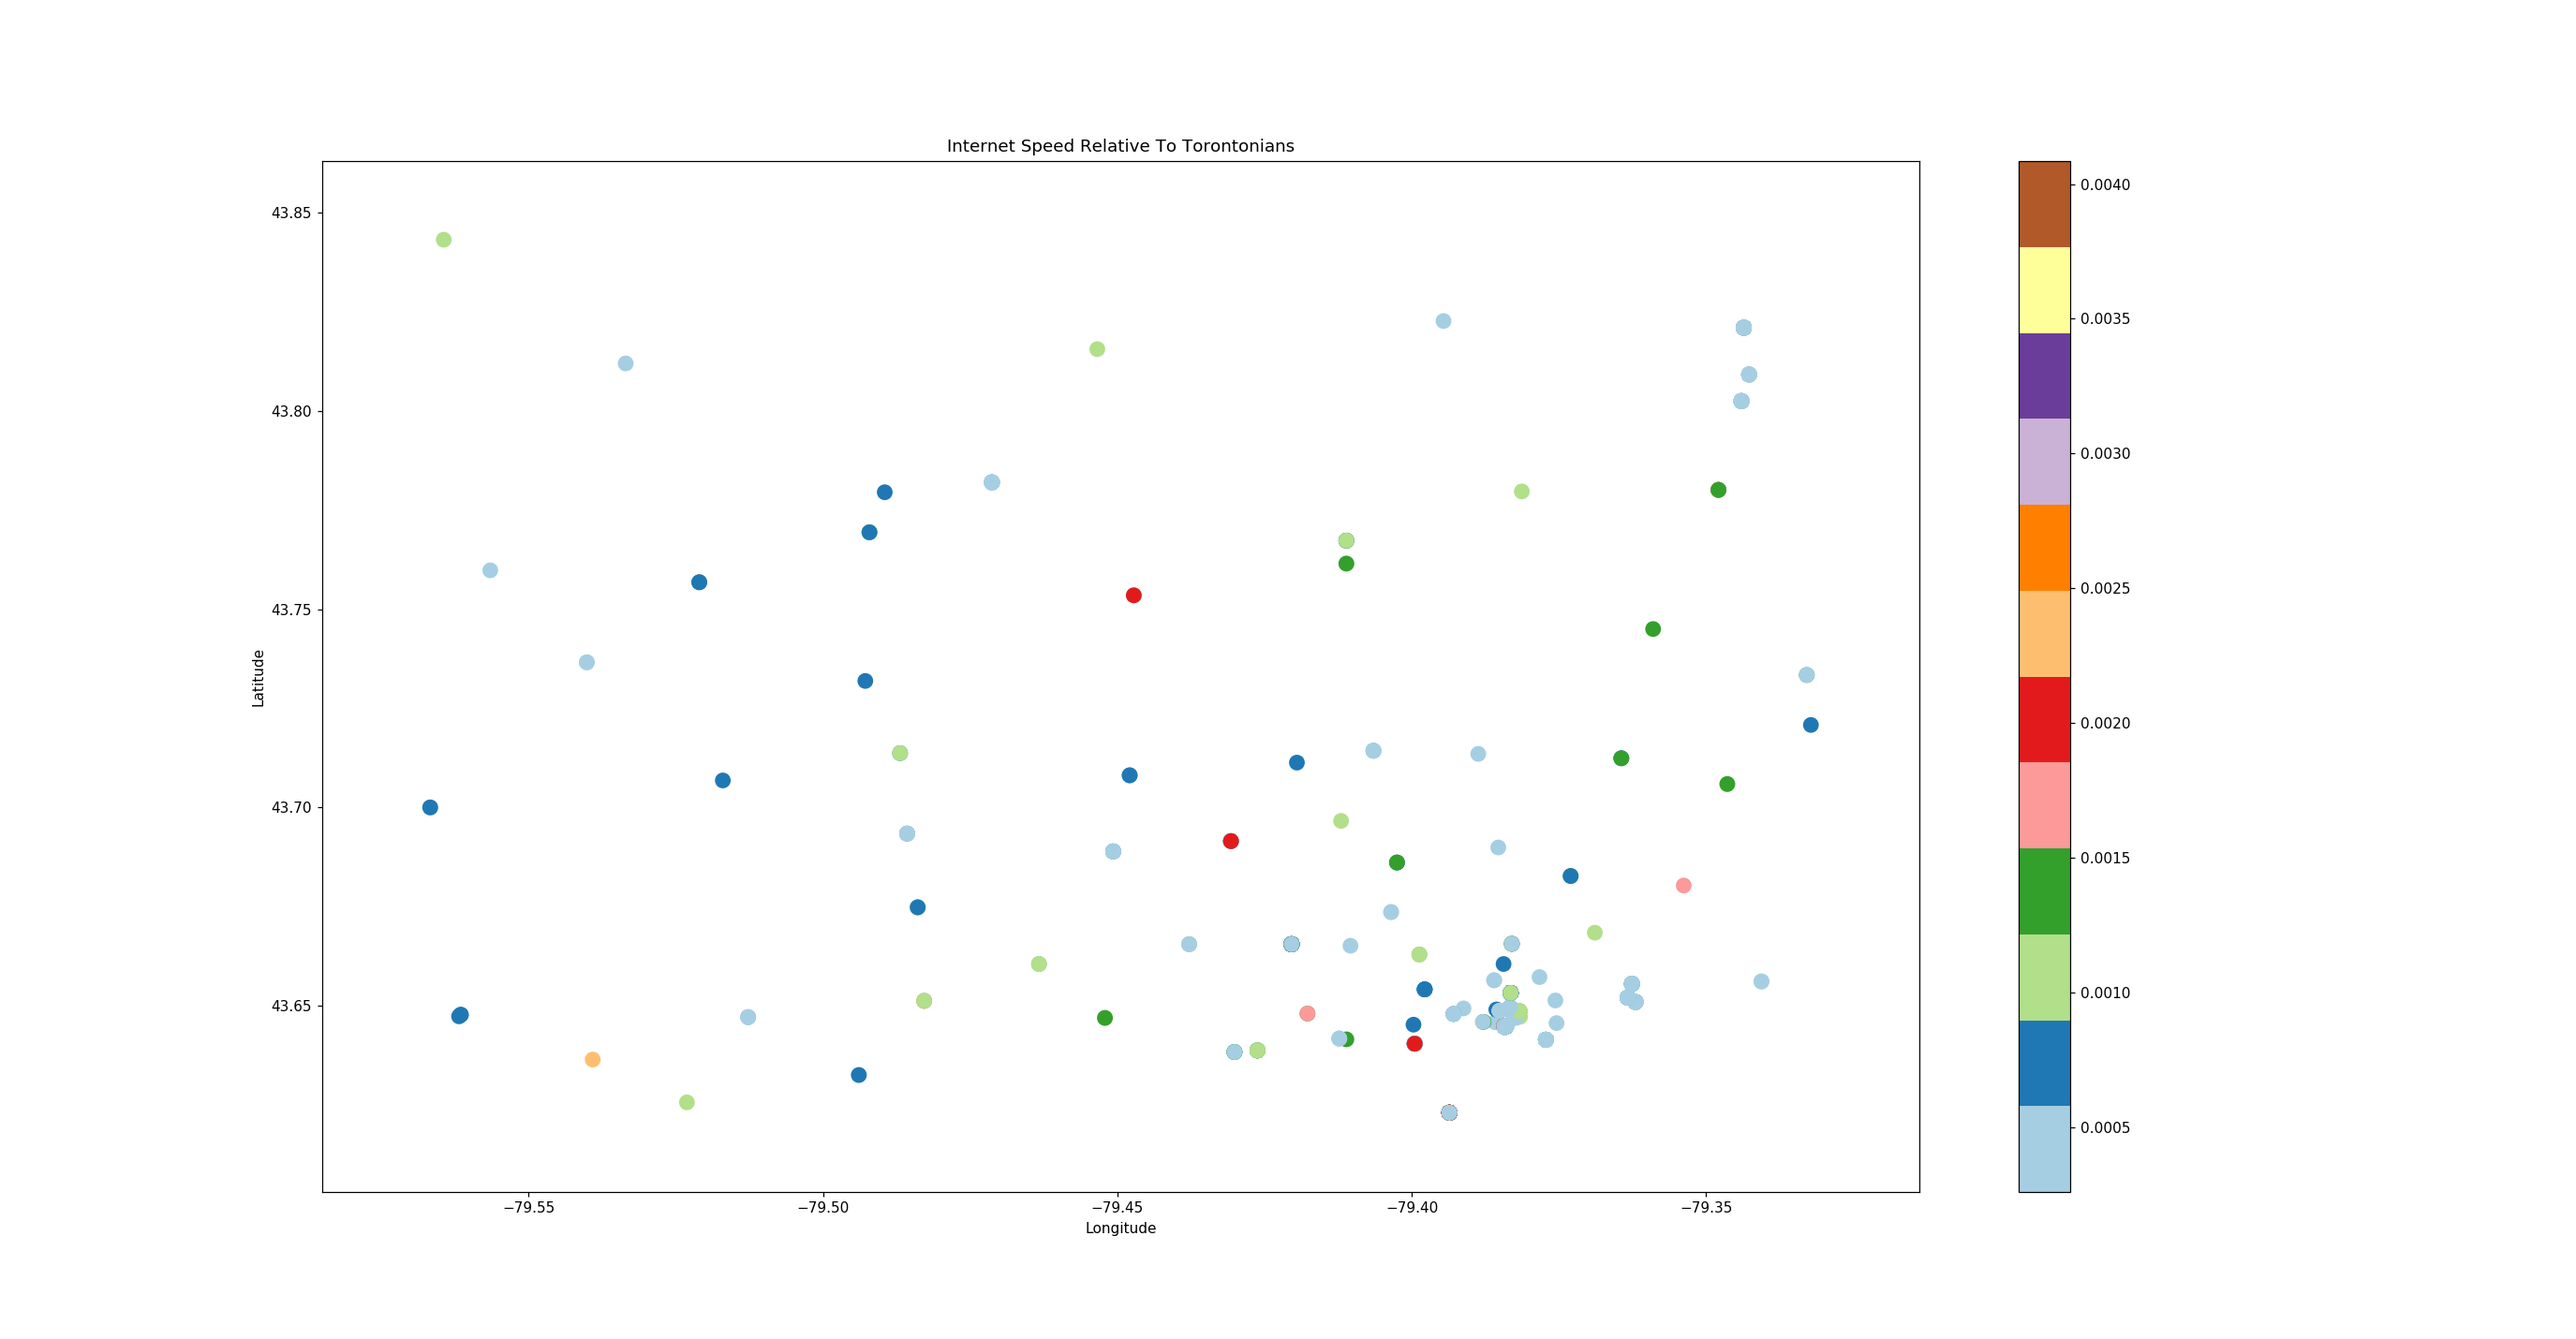
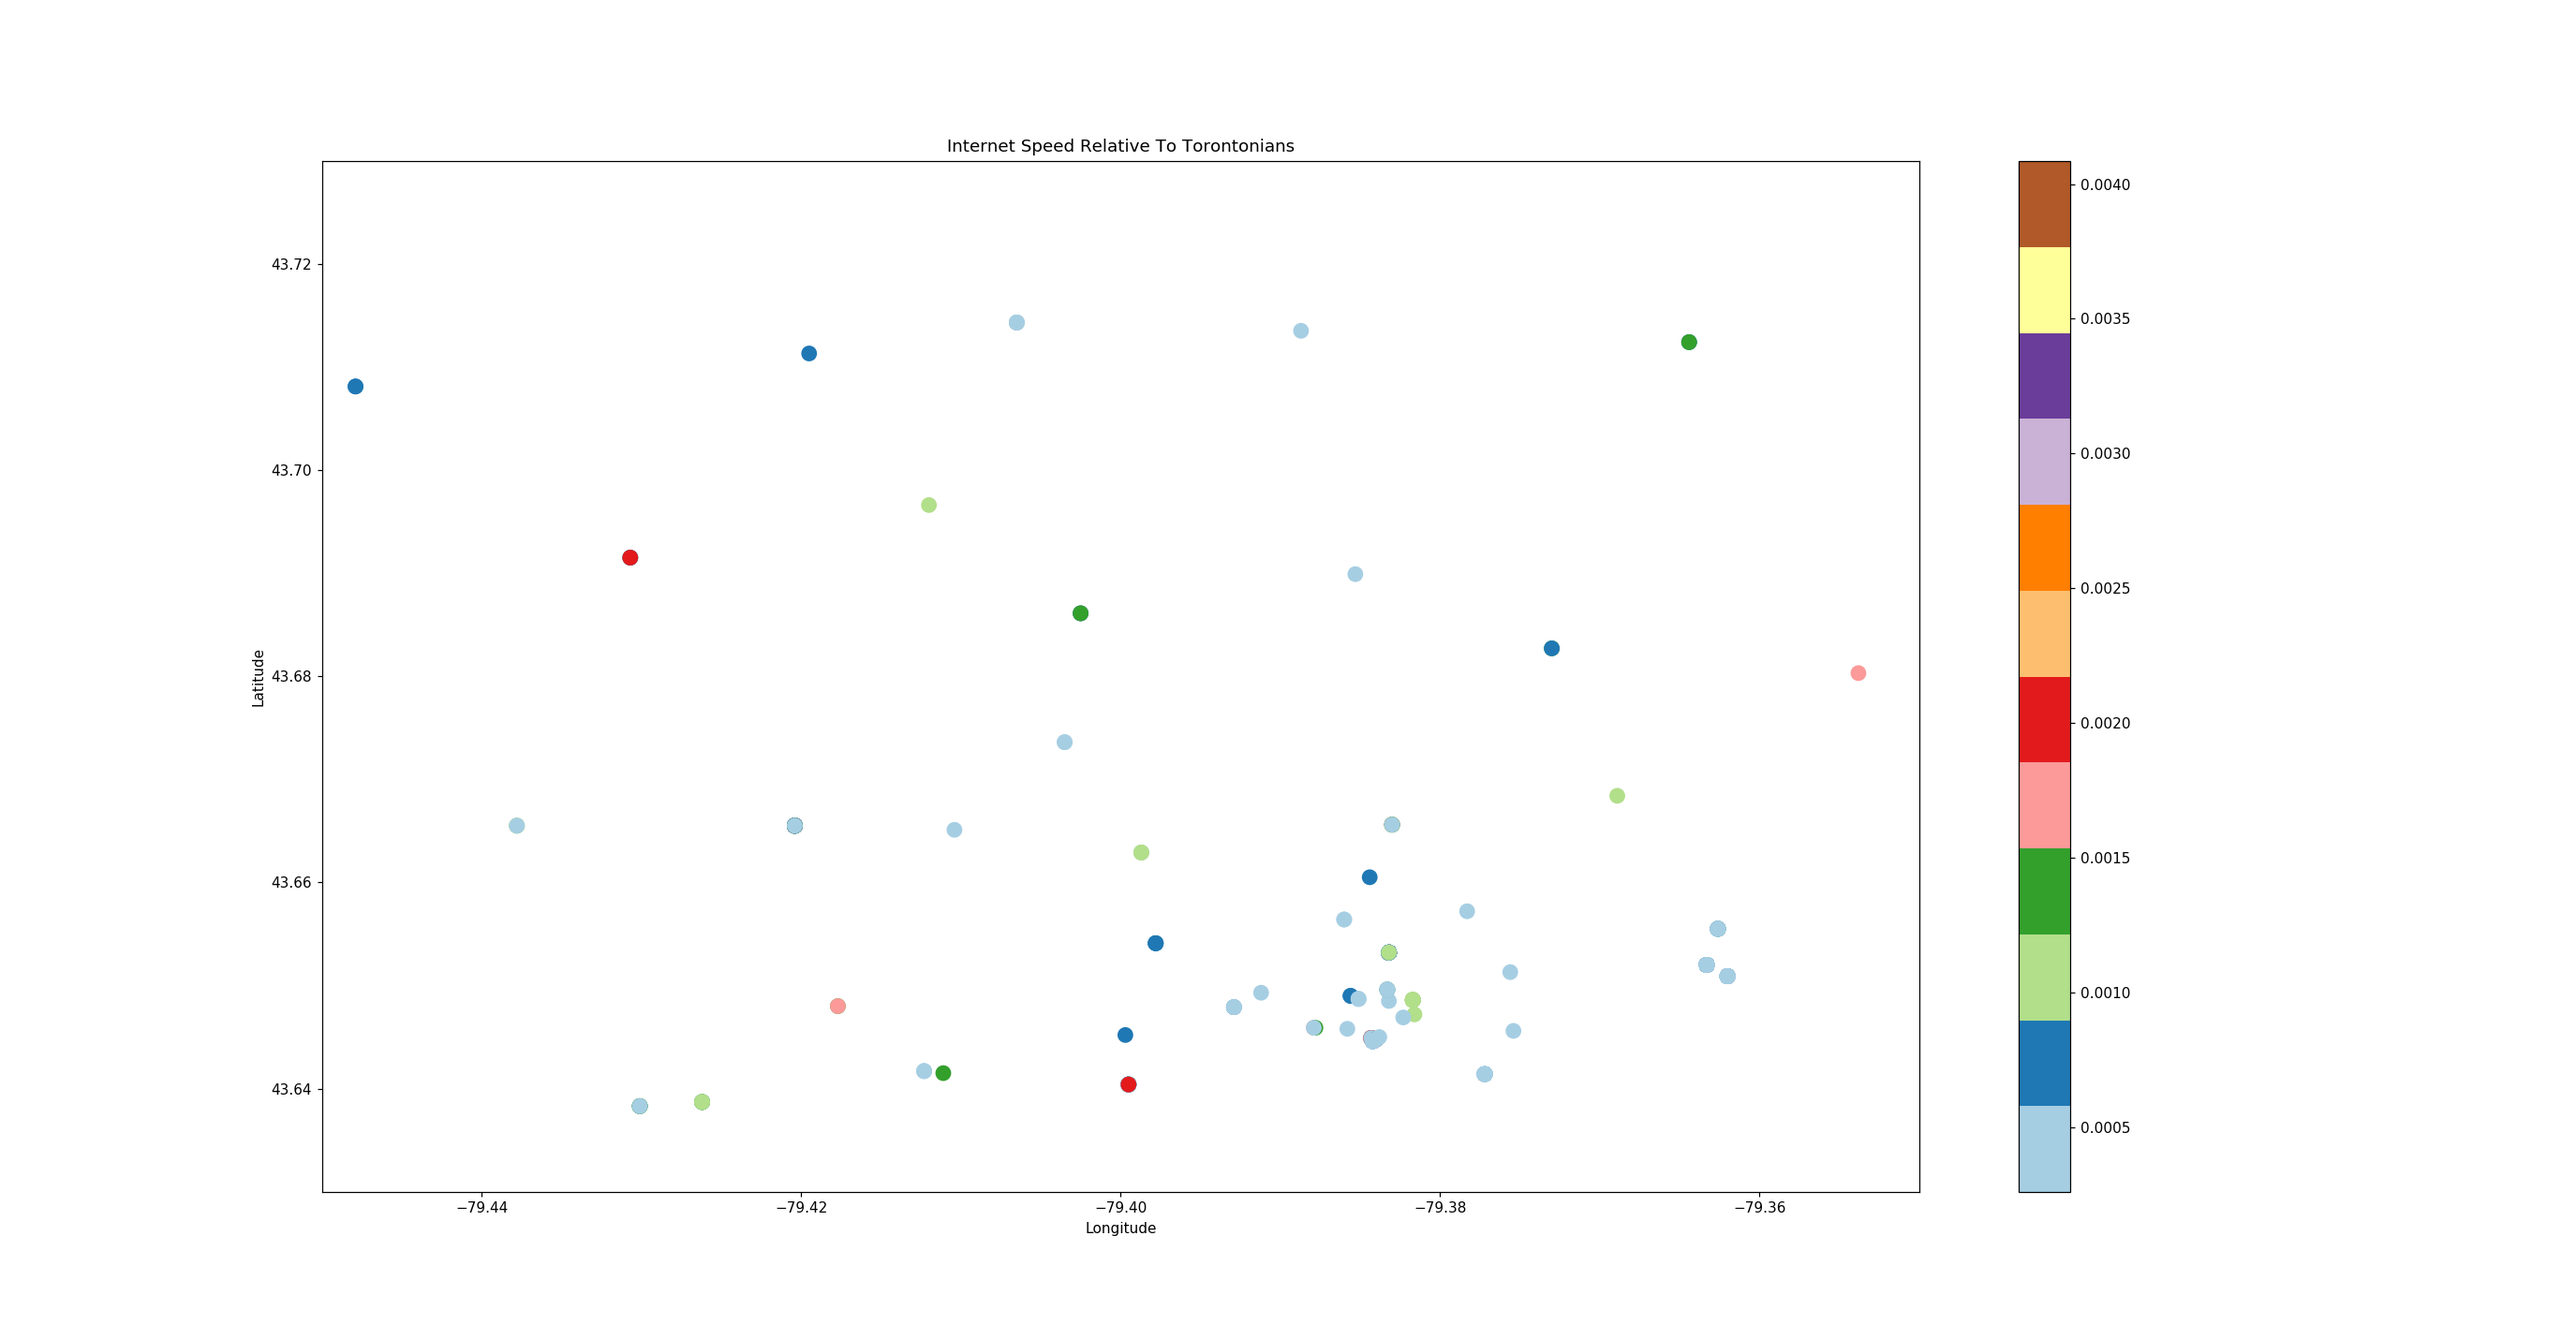
Fin

diff --git a/scrubbing_websites.py b/scrubbing_websites.py
@@ -12,6 +12,7 @@ import re                           # Import the regex module.
 import statistics
 import matplotlib
 import matplotlib.pyplot as plt
+import copy
 
 INITIAL_URL = r"https://tools.tracemyip.org/search--city/toronto-%21-ontario:-v-:&gTr=1&gNr=50"                                    # The link that contains all IPs in Toronto
 WRITE_TO_IPS = r'C:\Users\micha\Documents\GitHub\IP_Connectivity\ip_addresses_all.txt'                                             # File that contains all the ip addresses
@@ -309,18 +310,20 @@ def graphTwoD(ipDictionary, cnFigure, nonCNFigure):
     plt.colorbar()
     fig = plt.gcf()
     fig.set_size_inches(25, 13)
-    #f.savefig(cnFigure, dpi=110)
-    fig.savefig(cnFigure, dpi=110)
     fig.savefig(nonCNFigure, dpi=110)
+    plt.axis([-79.45, -79.35, 43.63, 43.73])
+    fig1 = plt.gcf()
+    fig1.set_size_inches(25, 13)
+    fig1.savefig(cnFigure, dpi=110)
     plt.clf()                                                                           # Clear the plots
     print("The number of values used: " + str(numUsed))
 
 ######getRawIPAddresses(WRITE_TO, UPPER_BOUND)                # 1. FIRST TASK: Writes the raw data from the site to a text file.
 ######parseIPAddresses(WRITE_TO_IPS, IP_LIST)                 # 2. SECOND TASK: Writes the ip addresses into a list 
-errorCount = pingIPs(15, IP_LIST, PING_FILE)                  # 3. THIRD TASK: Ping the specified desired IP Addresses
+##errorCount = pingIPs(15, IP_LIST, PING_FILE)                  # 3. THIRD TASK: Ping the specified desired IP Addresses
 ######getLongandLat(ipDict, IPADDRESS_DICT_FILE_NO_AVG)       # 4. FOURTH TASK: Find the longitude and latitude of each 
-#parsePingFileForAvgs(PING_FILE, IPADDRESS_DICT_FILE_NO_AVG, IPADDRESS_DICT_FILE_WITH_AVG)         # 5. FIFTH TASK: Put the averages from the text file
-#(avg, std) = getAverageAndStdDev(IPADDRESS_DICT_FILE_WITH_AVG)          # 6. SIXTH TASK: Find the average and the standard deviation
-#upDateZScore(IPADDRESS_DICT_FILE_WITH_AVG, avg, std, IPADDRESS_DICT_FILE_WITH_ZSCORES)  # 7. SEVENTH TASK: Put the z-scores into the dictionary and pickle
-#graphTwoD(IPADDRESS_DICT_FILE_WITH_ZSCORES, IMAGE_TWO_D_PLOT_DOWN, IMAGE_TWO_D_PLOT_NON_DOWN)        # 8. EIGTH TASK: Put the data into a graph. (Create for both)
-#createCSV(IPADDRESS_DICT_FILE_WITH_ZSCORES, CSV_IP_INFO)
+parsePingFileForAvgs(PING_FILE, IPADDRESS_DICT_FILE_NO_AVG, IPADDRESS_DICT_FILE_WITH_AVG)         # 5. FIFTH TASK: Put the averages from the text file
+(avg, std) = getAverageAndStdDev(IPADDRESS_DICT_FILE_WITH_AVG)          # 6. SIXTH TASK: Find the average and the standard deviation
+upDateZScore(IPADDRESS_DICT_FILE_WITH_AVG, avg, std, IPADDRESS_DICT_FILE_WITH_ZSCORES)  # 7. SEVENTH TASK: Put the z-scores into the dictionary and pickle
+graphTwoD(IPADDRESS_DICT_FILE_WITH_ZSCORES, IMAGE_TWO_D_PLOT_DOWN, IMAGE_TWO_D_PLOT_NON_DOWN)        # 8. EIGTH TASK: Put the data into a graph. (Create for both)
+createCSV(IPADDRESS_DICT_FILE_WITH_ZSCORES, CSV_IP_INFO)
